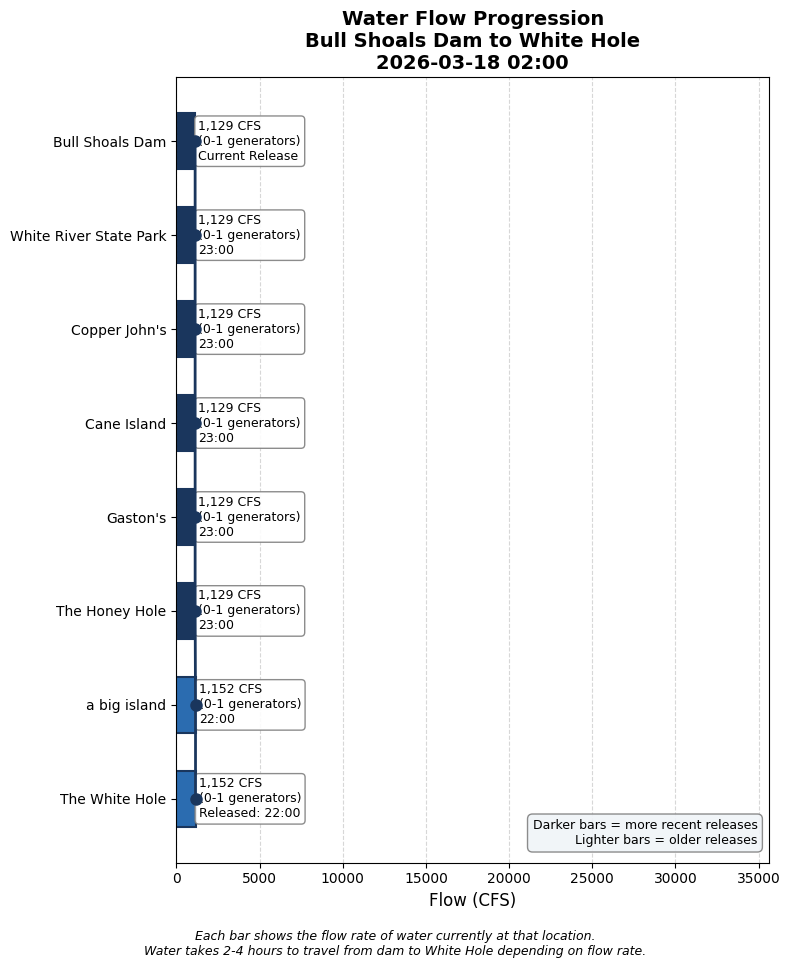
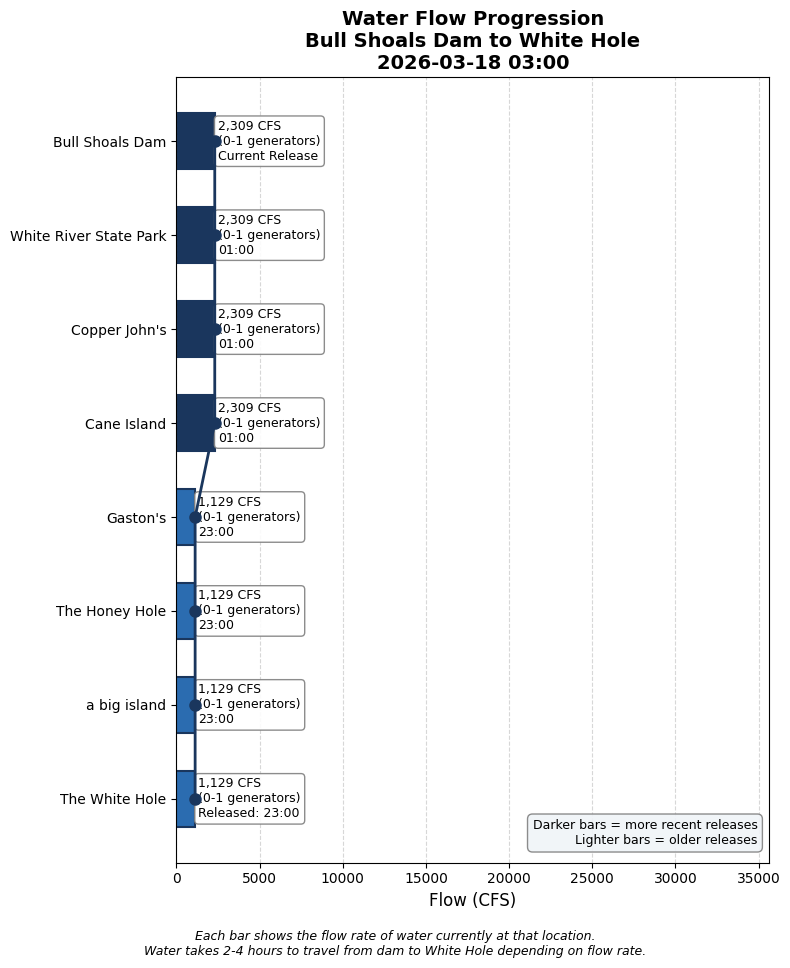
Update water conditions 2026-03-18 03:00

diff --git a/white_hole_conditions.html b/white_hole_conditions.html
@@ -3,7 +3,7 @@
 <head>
     <meta charset="UTF-8">
     <meta name="viewport" content="width=device-width, initial-scale=1.0">
-    <title>White Hole Conditions - 2026-03-18 02:00</title>
+    <title>White Hole Conditions - 2026-03-18 03:00</title>
     <style>
         body {
             font-family: -apple-system, BlinkMacSystemFont, 'Segoe UI', Roboto, sans-serif;
@@ -148,18 +148,18 @@
 </head>
 <body>
     <h1>White Hole Current Conditions</h1>
-    <p class="subtitle">Wednesday, March 18, 2026 at 02:00 AM</p>
+    <p class="subtitle">Wednesday, March 18, 2026 at 03:00 AM</p>
 
     <!-- HEADLINE BANNER -->
     <div class="headline-banner">
         <div class="main-status">✅ GOOD WADING — Conditions favorable</div>
-        <div class="forecast-status">➡ STABLE CONDITIONS expected</div>
+        <div class="forecast-status">⏱ RISING WATER arriving in ~103 minutes</div>
     </div>
 
     <!-- CURRENT CONDITIONS -->
     <div class="current-conditions">
         <h3>Current Conditions at White Hole</h3>
-        <div class="flow-display">1,152 CFS</div>
+        <div class="flow-display">1,129 CFS</div>
         <div class="generator-display">Equivalent to 0-1 generators</div>
         <div class="condition-pills">
             <span class="pill wading">Excellent Wading</span>
@@ -186,20 +186,20 @@
                 <tbody>
                     
                 <tr style="background-color: #ebf8ff;">
-                    <td style="padding: 10px; font-weight: bold;">23:00</td>
-                    <td style="padding: 10px;">1,129 CFS<br><small style="color: #666;">(0-1 generators)</small></td>
-                    <td style="padding: 10px;"><span style="color: #2b6cb0;">→ Arrives ~02:44 (in 43 min)</span></td>
+                    <td style="padding: 10px; font-weight: bold;">01:00</td>
+                    <td style="padding: 10px;">2,309 CFS<br><small style="color: #666;">(0-1 generators)</small></td>
+                    <td style="padding: 10px;"><span style="color: #2b6cb0;">→ Arrives ~04:44 (in 103 min)</span></td>
                 </tr>
             
                 <tr style="background-color: #e6fffa;">
-                    <td style="padding: 10px; font-weight: bold;">22:00</td>
-                    <td style="padding: 10px;">1,152 CFS<br><small style="color: #666;">(0-1 generators)</small></td>
+                    <td style="padding: 10px; font-weight: bold;">23:00</td>
+                    <td style="padding: 10px;">1,129 CFS<br><small style="color: #666;">(0-1 generators)</small></td>
                     <td style="padding: 10px;"><span style="color: #319795; font-weight: bold;">← AT WHITE HOLE NOW</span></td>
                 </tr>
             
                 <tr style="">
-                    <td style="padding: 10px; font-weight: bold;">18:00</td>
-                    <td style="padding: 10px;">3,931 CFS<br><small style="color: #666;">(1-2 generators)</small></td>
+                    <td style="padding: 10px; font-weight: bold;">19:00</td>
+                    <td style="padding: 10px;">6,956 CFS<br><small style="color: #666;">(2-3 generators)</small></td>
                     <td style="padding: 10px;"><span style="color: #718096;">passed</span></td>
                 </tr>
             
@@ -224,9 +224,9 @@
         </summary>
         <div style="padding: 15px;">
             <ul>
-                <li>Latest dam reading: 1,129 CFS at 2026-03-17 23:00</li>
+                <li>Latest dam reading: 2,309 CFS at 2026-03-18 01:00</li>
                 <li>Travel time to White Hole: 3.7 hours at current flow</li>
-                <li>White Hole conditions based on dam reading from: 2026-03-17 22:00</li>
+                <li>White Hole conditions based on dam reading from: 2026-03-17 23:00</li>
             </ul>
         </div>
     </details>
@@ -248,6 +248,13 @@
                     </thead>
                     <tbody>
                         
+                <tr style="border-bottom: 1px solid #eee;">
+                    <td style="padding: 8px;">2026-03-18 01:00</td>
+                    <td style="padding: 8px; text-align: right;">2309</td>
+                    <td style="padding: 8px; text-align: right;">0.7</td>
+                    <td style="padding: 8px; text-align: right;">3.7</td>
+                </tr>
+                
                 <tr style="border-bottom: 1px solid #eee;">
                     <td style="padding: 8px;">2026-03-17 23:00</td>
                     <td style="padding: 8px; text-align: right;">1129</td>
@@ -304,13 +311,6 @@
                     <td style="padding: 8px; text-align: right;">3.7</td>
                 </tr>
                 
-                <tr style="border-bottom: 1px solid #eee;">
-                    <td style="padding: 8px;">2026-03-17 15:00</td>
-                    <td style="padding: 8px; text-align: right;">2342</td>
-                    <td style="padding: 8px; text-align: right;">0.7</td>
-                    <td style="padding: 8px; text-align: right;">3.7</td>
-                </tr>
-                
                     </tbody>
                 </table>
             </div>
@@ -318,7 +318,7 @@
         
 
     <div class="timestamp">
-        Data retrieved and processed on 2026-03-18 02:00:08
+        Data retrieved and processed on 2026-03-18 03:00:12
     </div>
 </body>
 </html>
